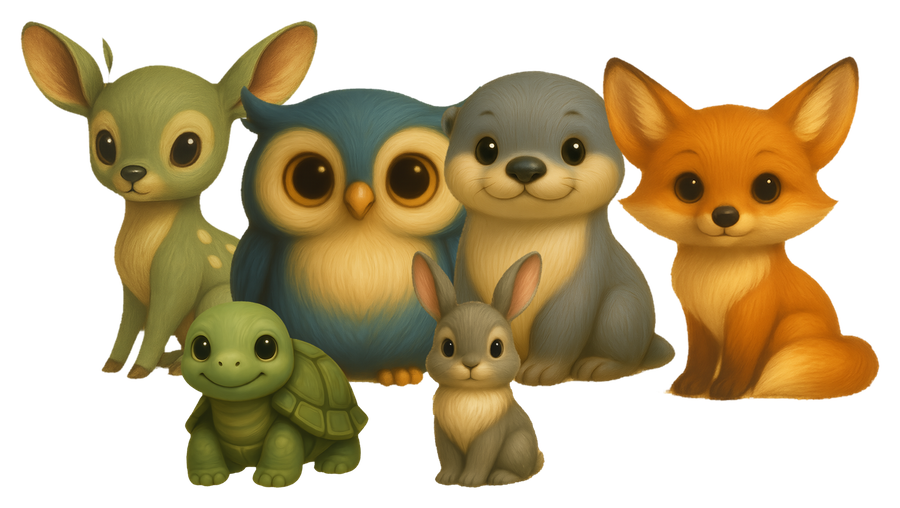
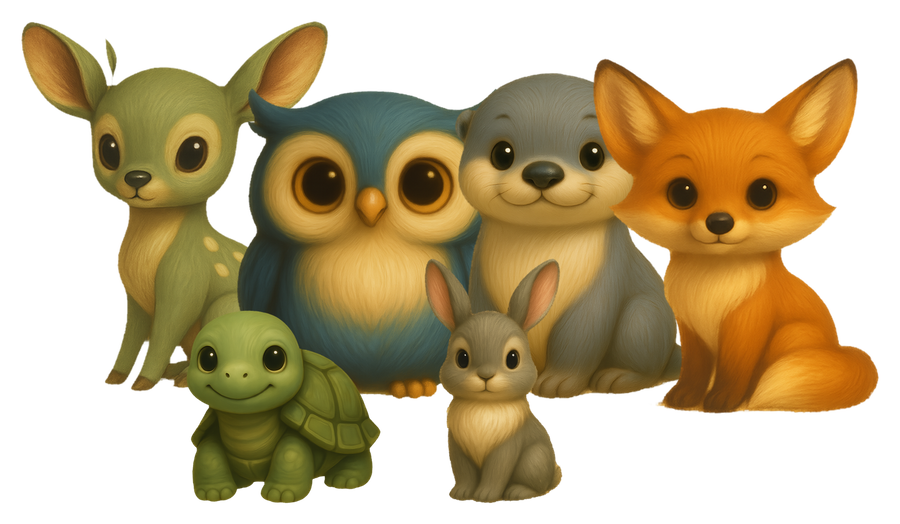
Tuck Sol into the group — he was reading as a seventh element beside a six
"sol looks left out on the right side" (Vanus). The ink profile agreed: the
valley immediately before Sol was the deepest, widest break in the whole
silhouette — 187px against 279px at the sage/river seam, and it showed as a
DOUBLE minimum, i.e. a genuine hole rather than an overlap.

The trap is that the centre spacing was already even (.205/.360/.520/.668).
These sprites are scaled by HEIGHT, so their widths differ by aspect ratio and
even centres produce uneven visual gaps. Measuring bounding boxes was also
misleading — they include ears and tails. Only the rendered ink profile showed
where the eye actually reads a hole.

sol 0.668 -> 0.645. Seam depth now 277px against 287px: evenness 0.65 -> 0.96.
Below ~0.625 he starts occluding River's face, which this layout's own note
forbids, so 0.645 is the floor not a preference.

diff --git a/quietoak/index.html b/quietoak/index.html
@@ -19,14 +19,14 @@
   <meta property="og:description" content="Practice DBT skills with a warm companion you choose — and who's there in the hard moments too. Crisis support is always free.">
   <meta property="og:url" content="https://hypersage.ai/quietoak/">
   <meta property="og:site_name" content="Quietoak">
-  <meta property="og:image" content="https://hypersage.ai/quietoak/og-image.png?v=20260806b">
+  <meta property="og:image" content="https://hypersage.ai/quietoak/og-image.png?v=20260810y">
   <meta property="og:image:width" content="1200">
   <meta property="og:image:height" content="630">
   <meta property="og:image:alt" content="Quietoak — a calmer way to practice DBT skills">
   <meta name="twitter:card" content="summary_large_image">
   <meta name="twitter:title" content="Quietoak — A calmer way to practice DBT skills.">
   <meta name="twitter:description" content="Practice DBT skills with a warm companion you choose. The crisis kit is always free.">
-  <meta name="twitter:image" content="https://hypersage.ai/quietoak/og-image.png?v=20260806b">
+  <meta name="twitter:image" content="https://hypersage.ai/quietoak/og-image.png?v=20260810y">
   <meta name="twitter:image:alt" content="Quietoak — a calmer way to practice DBT skills">
 
   <link rel="icon" type="image/png" href="quietoak-icon.png?v=20260810w">
